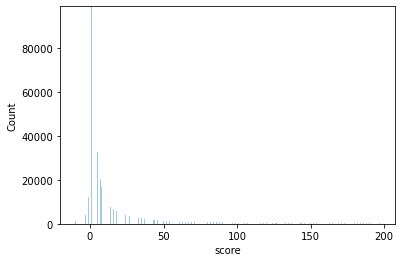
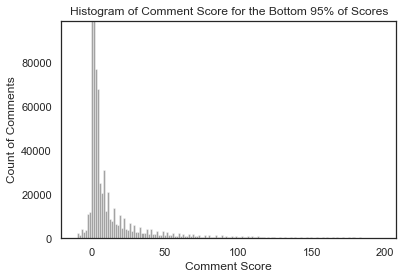
.

Changed region(s): [[0.0, 0.0, 1.0, 0.9771]]

diff --git a/templates/ex_analysis3.html b/templates/ex_analysis3.html
@@ -63,8 +63,7 @@ html,body,h1,h2,h3,h4,h5,h6 {font-family: "Roboto", sans-serif;}
       <img src="/static/religion_politics.png">
     </div>
     <div class="w3-third w3-container">
-      <p class="w3-border w3-padding-large w3-padding-32 w3-center">Replace with generic image</p>
-      <p class="w3-border w3-padding-large w3-padding-64 w3-center">AD</p>
+
     </div>
   </div>
 
@@ -78,8 +77,7 @@ html,body,h1,h2,h3,h4,h5,h6 {font-family: "Roboto", sans-serif;}
     <img src="/static/religion_conservative.png">   
     </div>
     <div class="w3-third w3-container">
-      <p class="w3-border w3-padding-large w3-padding-32 w3-center">AD</p>
-      <p class="w3-border w3-padding-large w3-padding-64 w3-center">AD</p>
+
     </div>
   </div>
 
@@ -92,32 +90,21 @@ html,body,h1,h2,h3,h4,h5,h6 {font-family: "Roboto", sans-serif;}
     <img src="/static/religion_christianity.png">   
     </div>
     <div class="w3-third w3-container">
-      <p class="w3-border w3-padding-large w3-padding-32 w3-center">AD</p>
-      <p class="w3-border w3-padding-large w3-padding-64 w3-center">AD</p>
+
     </div>
   </div>
 
-  <!-- Pagination -->
-  <div class="w3-center w3-padding-32">
-    <div class="w3-bar">
-      <a class="w3-button w3-black" href="#">1</a>
-      <a class="w3-button w3-hover-black" href="#">2</a>
-      <a class="w3-button w3-hover-black" href="#">3</a>
-      <a class="w3-button w3-hover-black" href="#">4</a>
-      <a class="w3-button w3-hover-black" href="#">5</a>
-      <a class="w3-button w3-hover-black" href="#">»</a>
+  <div class="w3-row w3-padding-64">
+    <div class="w3-twothird w3-container">
+      <h1 class="w3-text-teal">Atheism</h1>
+      <p>Below are comment score from the Atheism subreddit. </p>
+    <img src="/static/religion_atheism.png">   
+    </div>
+    <div class="w3-third w3-container">
+
     </div>
   </div>
 
-  <footer id="myFooter">
-    <div class="w3-container w3-theme-l2 w3-padding-32">
-      <h4>Footer</h4>
-    </div>
-
-    <div class="w3-container w3-theme-l1">
-      <p>Powered by <a href="https://www.w3schools.com/w3css/default.asp" target="_blank">w3.css</a></p>
-    </div>
-  </footer>
 
 <!-- END MAIN -->
 </div>

diff --git a/templates/resume.html b/templates/resume.html
@@ -63,17 +63,12 @@ html,body,h1,h2,h3,h4,h5,h6 {font-family: "Roboto", sans-serif;}
   <div class="w3-row">
     <div class="w3-twothird w3-container">
       <h1 class="w3-text-teal">Skills</h1>
-      <p><b>Languages:</b>Python (expert), R, MATLAB, SQL, SPSS </p>
+      <p><b>Languages: </b>Python (expert), R, MATLAB, SQL, SPSS, HTML </p>
       <p><b>Packages: </b>Pandas, NumPy, SciPy, Scikit-learn, Flask, MatPlotLib, NLTK, Seaborn, GgPlot2, Bokeh</p>
       <p><b>Tools:</b> Git, Jupyter Notebook, RStudio, Qualtrics, Unix</p>
       <p><b>Statistics:</b>Linear Regression, ANOVA, Logistic Regression, Linear Mixed Models
       <br>Bayesian estimation,Time Series Analysis, Factor Analysis, Mediation, Bootstrapping, Jackknifing</p>
-    </div>
-    <div class="w3-third w3-container">
-      <p class="w3-border w3-padding-large w3-padding-32 w3-center">AD</p>
-      <p class="w3-border w3-padding-large w3-padding-64 w3-center">AD</p>
-    </div>
-  </div>
+
 
   <div class="w3-row w3-padding-64">
     <div class="w3-twothird w3-container">
@@ -124,34 +119,10 @@ html,body,h1,h2,h3,h4,h5,h6 {font-family: "Roboto", sans-serif;}
       
       
       
-    </div>
-    <div class="w3-third w3-container">
-      <p class="w3-border w3-padding-large w3-padding-32 w3-center">AD</p>
-      <p class="w3-border w3-padding-large w3-padding-64 w3-center">AD</p>
-    </div>
-  </div>
 
-  <!-- Pagination -->
-  <div class="w3-center w3-padding-32">
-    <div class="w3-bar">
-      <a class="w3-button w3-black" href="#">1</a>
-      <a class="w3-button w3-hover-black" href="#">2</a>
-      <a class="w3-button w3-hover-black" href="#">3</a>
-      <a class="w3-button w3-hover-black" href="#">4</a>
-      <a class="w3-button w3-hover-black" href="#">5</a>
-      <a class="w3-button w3-hover-black" href="#">»</a>
-    </div>
-  </div>
 
-  <footer id="myFooter">
-    <div class="w3-container w3-theme-l2 w3-padding-32">
-      <h4>Footer</h4>
-    </div>
 
-    <div class="w3-container w3-theme-l1">
-      <p>Powered by <a href="https://www.w3schools.com/w3css/default.asp" target="_blank">w3.css</a></p>
-    </div>
-  </footer>
+
 
 <!-- END MAIN -->
 </div>

diff --git a/templates/ex_analysis2.html b/templates/ex_analysis2.html
@@ -63,7 +63,7 @@ html,body,h1,h2,h3,h4,h5,h6 {font-family: "Roboto", sans-serif;}
       A couple things stand out immediatly. More negative comments about Republicans do better, as do more negative comments about democrats.
       Comments about libertarians have large standard error, a trend that will be seen throughout. Finally, the average scores do not differ
       for comments about republicans and comments about democrats.</p>
-      <img src="/static/Politics_politics.png">
+      <img src="/static/Politics_politics.png"> 
     </div>
     <div class="w3-third w3-container">
       <p class="w3-border w3-padding-large w3-padding-32 w3-center">Replace with generic image</p>
@@ -79,8 +79,6 @@ html,body,h1,h2,h3,h4,h5,h6 {font-family: "Roboto", sans-serif;}
     <img src="/static/politics_conservative.png">   
     </div>
     <div class="w3-third w3-container">
-      <p class="w3-border w3-padding-large w3-padding-32 w3-center">AD</p>
-      <p class="w3-border w3-padding-large w3-padding-64 w3-center">AD</p>
     </div>
   </div>
 
@@ -91,8 +89,26 @@ html,body,h1,h2,h3,h4,h5,h6 {font-family: "Roboto", sans-serif;}
     <img src="/static/politics_sports.png">   
     </div>
     <div class="w3-third w3-container">
-      <p class="w3-border w3-padding-large w3-padding-32 w3-center">AD</p>
-      <p class="w3-border w3-padding-large w3-padding-64 w3-center">AD</p>
+    </div>
+  </div>
+
+  <div class="w3-row w3-padding-64">
+    <div class="w3-twothird w3-container">
+      <h1 class="w3-text-teal">Europe Subreddit</h1>
+      <p>Below are data and scores from the Europe subreddit.</p>
+    <img src="/static/politics_europe.png">   
+    </div>
+    <div class="w3-third w3-container">
+    </div>
+  </div>
+
+  <div class="w3-row w3-padding-64">
+    <div class="w3-twothird w3-container">
+      <h1 class="w3-text-teal">Atheism Subreddit</h1>
+      <p>Below are data and scores from the Atheism subreddit.</p>
+    <img src="/static/politics_atheism.png">   
+    </div>
+    <div class="w3-third w3-container">
     </div>
   </div>
 

diff --git a/templates/about.html b/templates/about.html
@@ -95,27 +95,7 @@ html,body,h1,h2,h3,h4,h5,h6 {font-family: "Roboto", sans-serif;}
     </div>
   </div>
 
-  <!-- Pagination -->
-  <div class="w3-center w3-padding-32">
-    <div class="w3-bar">
-      <a class="w3-button w3-black" href="#">1</a>
-      <a class="w3-button w3-hover-black" href="#">2</a>
-      <a class="w3-button w3-hover-black" href="#">3</a>
-      <a class="w3-button w3-hover-black" href="#">4</a>
-      <a class="w3-button w3-hover-black" href="#">5</a>
-      <a class="w3-button w3-hover-black" href="#">»</a>
-    </div>
-  </div>
 
-  <footer id="myFooter">
-    <div class="w3-container w3-theme-l2 w3-padding-32">
-      <h4>Footer</h4>
-    </div>
-
-    <div class="w3-container w3-theme-l1">
-      <p>Powered by <a href="https://www.w3schools.com/w3css/default.asp" target="_blank">w3.css</a></p>
-    </div>
-  </footer>
 
 <!-- END MAIN -->
 </div>

diff --git a/app.py b/app.py
@@ -176,12 +176,15 @@ def make_figure(df_sample, dfenteredlong, enter_text):
                toolbar_location=None,  tooltips="@groups $name: @$name")
 
     p.vbar(x=dodge('groups', -0.25, range=p.x_range), top='negative', width=0.2, source=source,
-           color="#c9d9d3", legend_label="negative", name = "negative")
+           color="#696969", legend_label="negative", name = "negative")
     p.vbar(x=dodge('groups', 0, range=p.x_range), top='neutral', width=0.2, source=source,
-           color="#718dbf", legend_label="neutral", name = "neutral")
+           color="#FFFF00", legend_label="neutral", name = "neutral")
     p.vbar(x=dodge('groups', 0.25, range=p.x_range), top='positive', width=0.2, source=source,
-           color="#e84d60", legend_label="positive", name = "positive")
-
+           color="#add8e6", legend_label="positive", name = "positive")
+    p.title.text_font_size = "20px"
+    p.xaxis.major_label_text_font_size = "20px"
+    p.yaxis.axis_label = 'Comment Score'
+    p.yaxis.axis_label_text_font_size = "20pt"
     p.x_range.range_padding = 0.1
     p.xgrid.grid_line_color = None
     p.legend.location = "top_left"
